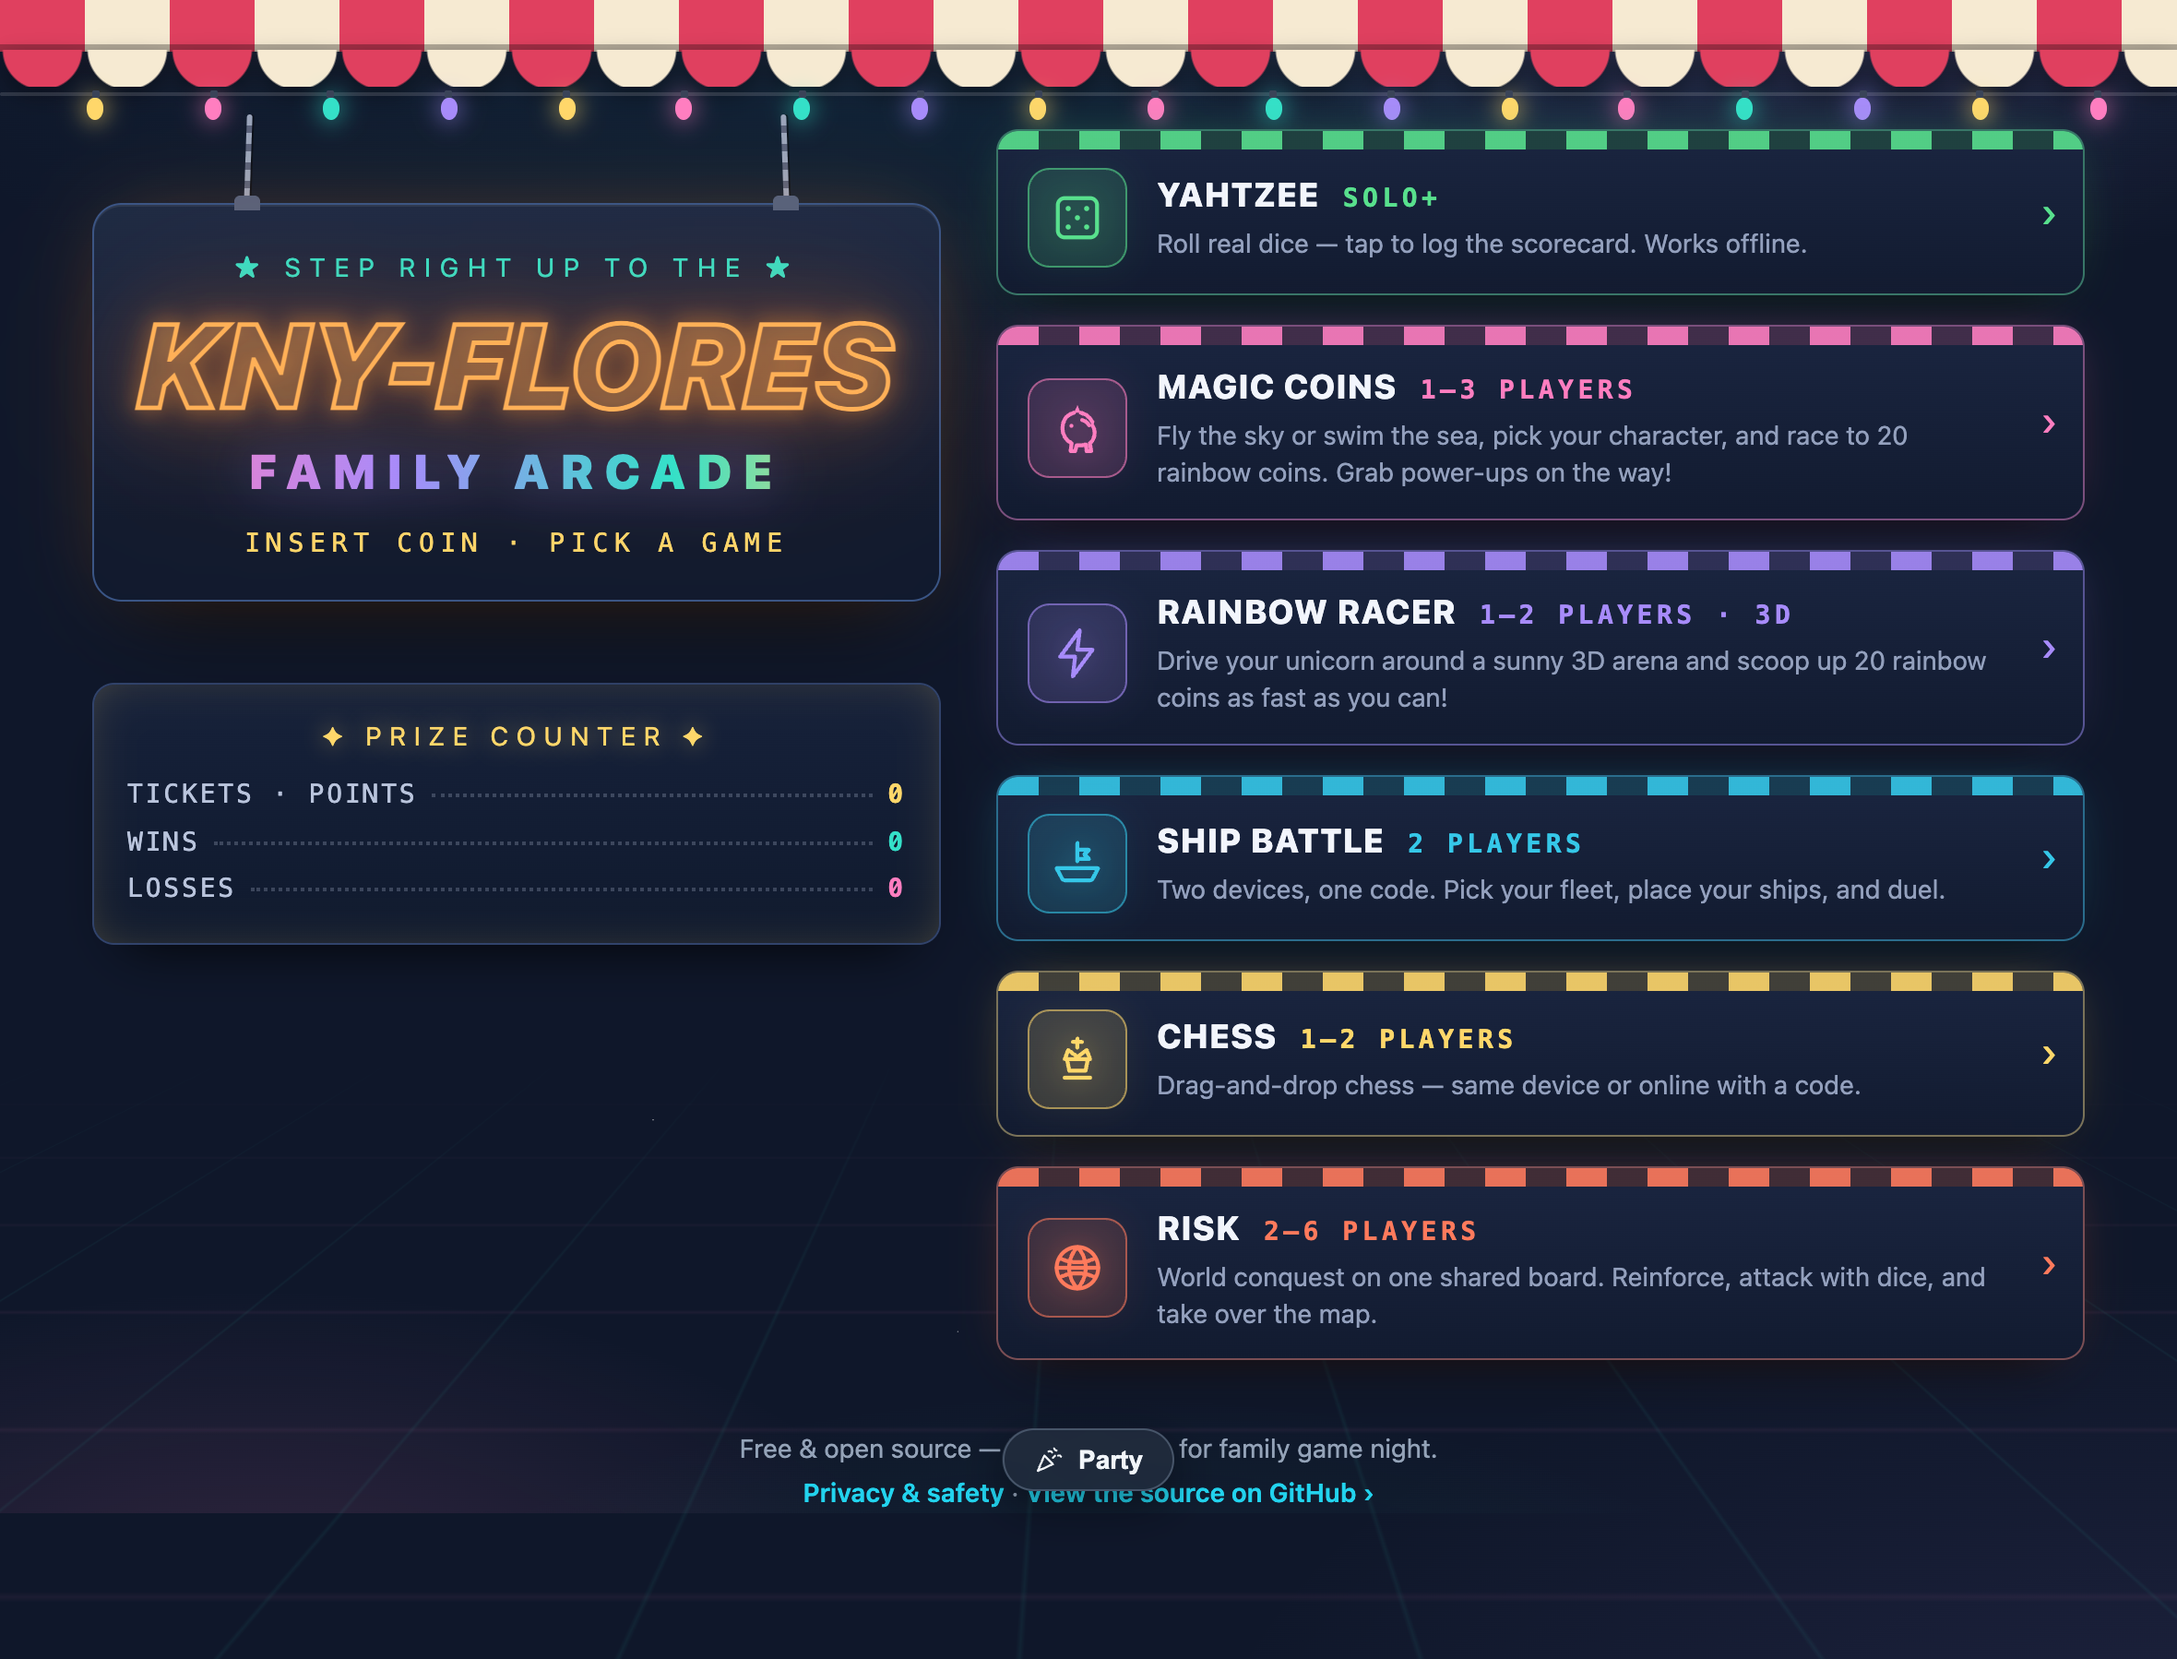
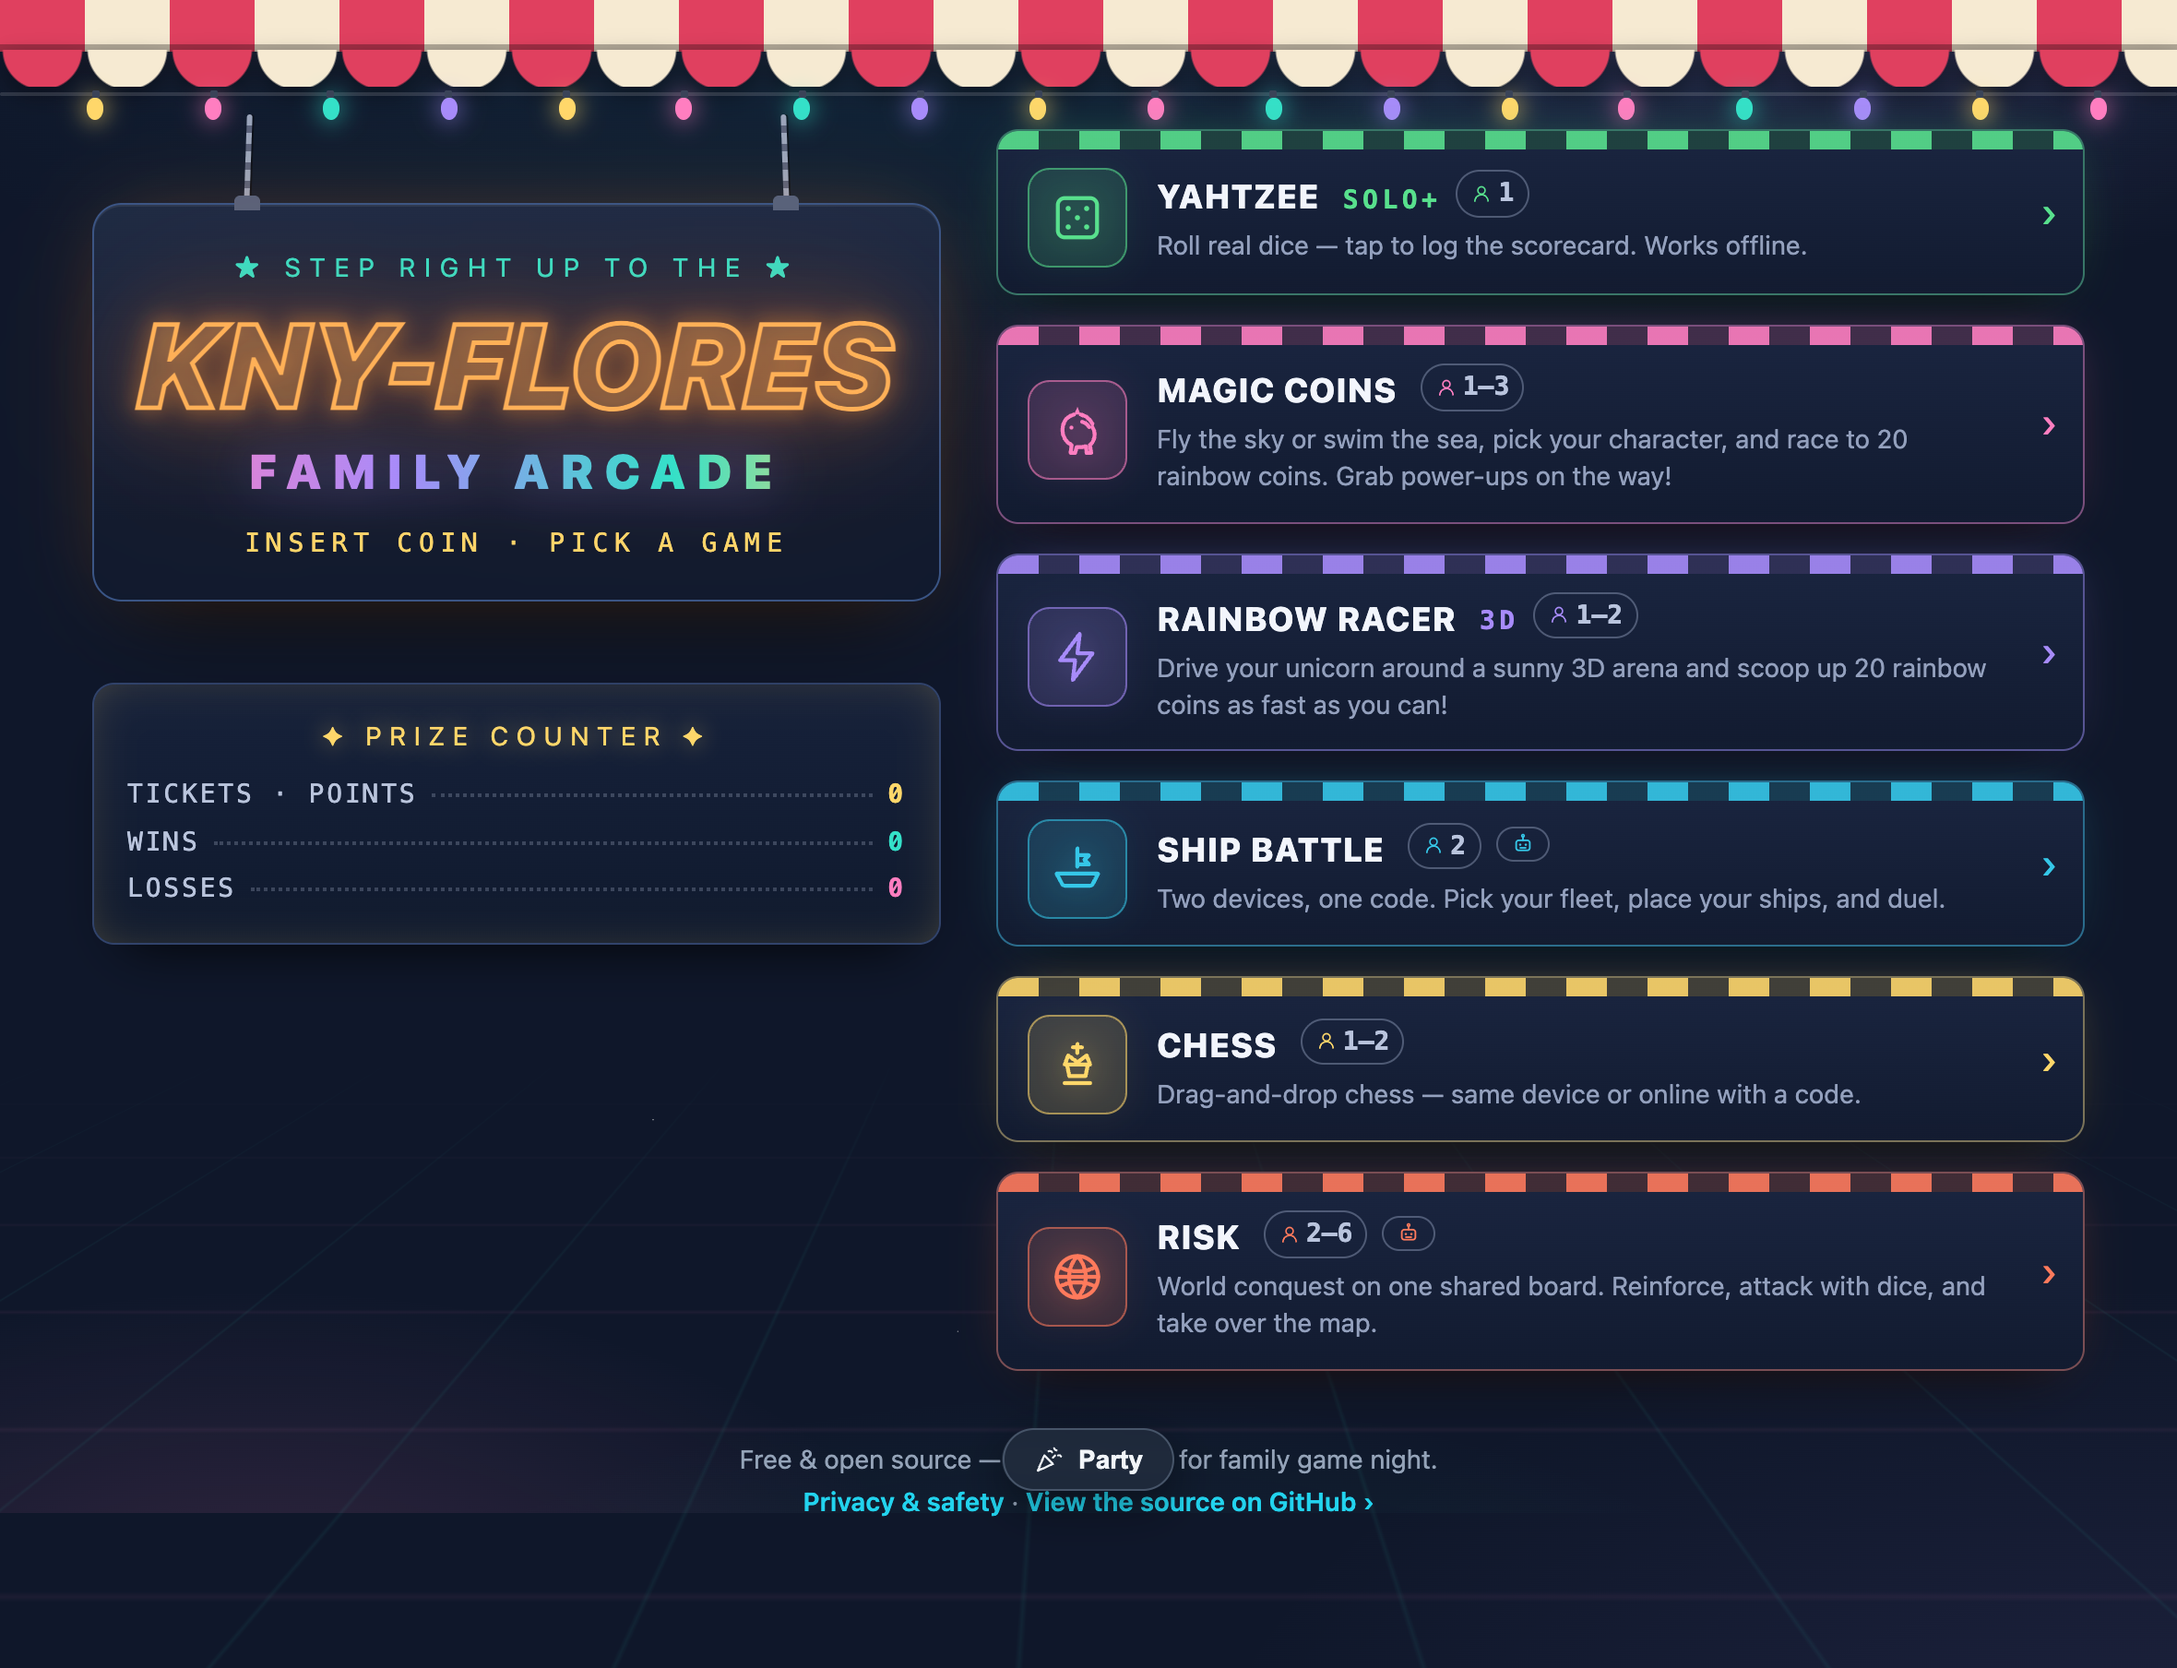
feat(menu): every ticket wears its player count; the robot marks computer games
GameDescriptor gains structured players {min,max} and a computer flag,
replacing the free-text player tags (tag stays for extras like 3D).
Tickets stamp a person-icon count pill and, for Risk and Ship Battle, a
robot badge whose tooltip and aria-label say the game plays against the
computer. Landing screenshots updated.

Claude-Session: https://claude.ai/code/session_0146VWPAYsAFebJ5DNhYKXg7

diff --git a/src/app/Menu.tsx b/src/app/Menu.tsx
@@ -1,6 +1,6 @@
 import { Link } from 'react-router-dom';
 import { useProfile } from '@shared/profile/useProfile';
-import { GridIcon, ResumeIcon } from '@shared/ui/icons';
+import { BotIcon, GridIcon, PersonIcon, ResumeIcon } from '@shared/ui/icons';
 import { GAMES } from './registry';
 
 /**
@@ -36,12 +36,19 @@ function BulbString({ count, offset = 0 }: { count: number; offset?: number }) {
 }
 
 /** One game ticket: awning strip, glyph, name, blurb. */
-function Ticket({ title, sub, tag, children }: {
+function Ticket({ title, sub, tag, players, computer, children }: {
   title: string;
   sub: string;
   tag?: string;
+  players: { min: number; max: number };
+  computer?: boolean;
   children: React.ReactNode;
 }) {
+  const count = players.min === players.max ? String(players.min) : `${players.min}–${players.max}`;
+  const playersLabel =
+    players.min === players.max
+      ? `For ${players.min} player${players.min === 1 ? '' : 's'}`
+      : `For ${players.min}–${players.max} players`;
   return (
     <>
       <span className="tk-awning" aria-hidden="true" />
@@ -50,6 +57,19 @@ function Ticket({ title, sub, tag, children }: {
         <span className="tk-body">
           <span className="tk-name">
             {title} {tag && <small>{tag}</small>}
+            <span className="tk-badge" role="img" title={playersLabel} aria-label={playersLabel}>
+              <PersonIcon size={12} /> {count}
+            </span>
+            {computer && (
+              <span
+                className="tk-badge"
+                role="img"
+                title="Plays against the computer too — nobody else needed."
+                aria-label="Has computer players"
+              >
+                <BotIcon size={13} />
+              </span>
+            )}
           </span>
           <span className="tk-desc">{sub}</span>
         </span>
@@ -91,14 +111,25 @@ export function Menu() {
 
         <nav className="tix" aria-label="Games">
           <a className="tk game-yahtzee" href={`${import.meta.env.BASE_URL}calculator.html`}>
-            <Ticket title="Yahtzee" sub="Roll real dice — tap to log the scorecard. Works offline." tag="Solo+">
+            <Ticket
+              title="Yahtzee"
+              sub="Roll real dice — tap to log the scorecard. Works offline."
+              tag="Solo+"
+              players={{ min: 1, max: 1 }}
+            >
               <GridIcon size={30} />
             </Ticket>
           </a>
 
           {GAMES.map((game) => (
             <Link key={game.id} className={`tk game-${game.id}`} to={game.path}>
-              <Ticket title={game.title} sub={game.description} tag={game.tag}>
+              <Ticket
+                title={game.title}
+                sub={game.description}
+                tag={game.tag}
+                players={game.players}
+                computer={game.computer}
+              >
                 <game.Icon size={30} />
               </Ticket>
             </Link>

diff --git a/src/app/Menu.test.tsx b/src/app/Menu.test.tsx
@@ -23,6 +23,28 @@ describe('<Menu> — the arcade landing page', () => {
     }
   });
 
+  it('every ticket wears a player-count badge from its descriptor', () => {
+    renderMenu();
+    for (const game of GAMES) {
+      const ticket = document.querySelector(`.game-${game.id}`)!;
+      const { min, max } = game.players;
+      const label = min === max ? `For ${min} player${min === 1 ? '' : 's'}` : `For ${min}–${max} players`;
+      expect(ticket.querySelector(`[aria-label="${label}"]`)).not.toBeNull();
+    }
+    // Yahtzee's hand-built ticket gets the same treatment.
+    expect(document.querySelector('.game-yahtzee [aria-label="For 1 player"]')).not.toBeNull();
+  });
+
+  it('games with computer opponents wear the little robot, with a tooltip', () => {
+    renderMenu();
+    for (const id of ['risk', 'battleship']) {
+      const badge = document.querySelector(`.game-${id} [aria-label="Has computer players"]`);
+      expect(badge).not.toBeNull();
+      expect(badge!.getAttribute('title')).toMatch(/computer/i);
+    }
+    expect(document.querySelector('.game-unicorn [aria-label="Has computer players"]')).toBeNull();
+  });
+
   it('hides the Save Station when nothing is saved', () => {
     renderMenu();
     expect(screen.queryByLabelText('Saved games')).toBeNull();

diff --git a/src/app/styles/app.css b/src/app/styles/app.css
@@ -320,6 +320,25 @@
   color: var(--c);
   margin-left: 8px;
 }
+/* Little fairground stamps on each ticket: how many players, and the robot
+   for games that seat computer opponents. Tooltips carry the long version. */
+.tk-badge {
+  display: inline-flex;
+  align-items: center;
+  gap: 3px;
+  vertical-align: 2px;
+  margin-left: 8px;
+  padding: 2px 7px;
+  border: 1px solid rgba(147, 160, 189, 0.45);
+  border-radius: 999px;
+  font-family: var(--mono);
+  font-size: 14px;
+  font-weight: 600;
+  letter-spacing: 0;
+  text-transform: none;
+  color: #b9c4dd;
+}
+.tk-badge svg { color: var(--c); }
 .tk-desc {
   display: block;
   font-size: 14px;

diff --git a/src/shared/game.ts b/src/shared/game.ts
@@ -33,8 +33,13 @@ export interface GameDescriptor {
   id: string;
   /** Menu title, e.g. "Ship Battle". */
   title: string;
-  /** Optional pill next to the title, e.g. "2-Player". */
+  /** Optional pill next to the title for extras like "3D" — player counts and
+   * computer support have their own structured badges below. */
   tag?: string;
+  /** How many people can play — worn as a badge on the landing ticket. */
+  players: { min: number; max: number };
+  /** True when the game seats computer opponents (ADR 0009). */
+  computer?: boolean;
   /** Route path, e.g. "/play". */
   path: string;
   /** One-line menu blurb. */

diff --git a/src/games/unicorn/index.ts b/src/games/unicorn/index.ts
@@ -5,7 +5,7 @@ import { UnicornPage } from './components/UnicornPage';
 export const unicorn: GameDescriptor = {
   id: 'unicorn',
   title: 'Magic Coins',
-  tag: '1–3 Players',
+  players: { min: 1, max: 3 },
   path: '/unicorn',
   description:
     'Fly the sky or swim the sea, pick your character, and race to 20 rainbow coins. Grab power-ups on the way!',

diff --git a/src/games/racer/index.ts b/src/games/racer/index.ts
@@ -5,7 +5,8 @@ import { RacerPage } from './components/RacerPage';
 export const racer: GameDescriptor = {
   id: 'racer',
   title: 'Rainbow Racer',
-  tag: '1–2 Players · 3D',
+  tag: '3D',
+  players: { min: 1, max: 2 },
   path: '/racer',
   description:
     'Drive your unicorn around a sunny 3D arena and scoop up 20 rainbow coins as fast as you can!',

diff --git a/src/games/risk/index.ts b/src/games/risk/index.ts
@@ -20,7 +20,8 @@ function savedGames(): SavedGameSummary[] {
 export const risk: GameDescriptor = {
   id: 'risk',
   title: 'Risk',
-  tag: '2–6 Players',
+  players: { min: 2, max: 6 },
+  computer: true,
   path: '/risk',
   description: 'World conquest on one shared board. Reinforce, attack with dice, and take over the map.',
   Icon: GlobeIcon,

diff --git a/src/games/battleship/index.ts b/src/games/battleship/index.ts
@@ -20,7 +20,8 @@ function savedGames(): SavedGameSummary[] {
 export const battleship: GameDescriptor = {
   id: 'battleship',
   title: 'Ship Battle',
-  tag: '2 Players',
+  players: { min: 2, max: 2 },
+  computer: true,
   path: '/play',
   description: 'Two devices, one code. Pick your fleet, place your ships, and duel.',
   Icon: ShipIcon,

diff --git a/src/games/chess/index.ts b/src/games/chess/index.ts
@@ -35,7 +35,7 @@ function savedGames(): SavedGameSummary[] {
 export const chess: GameDescriptor = {
   id: 'chess',
   title: 'Chess',
-  tag: '1–2 Players',
+  players: { min: 1, max: 2 },
   path: '/chess',
   description: 'Drag-and-drop chess — same device or online with a code.',
   Icon: ChessIcon,
